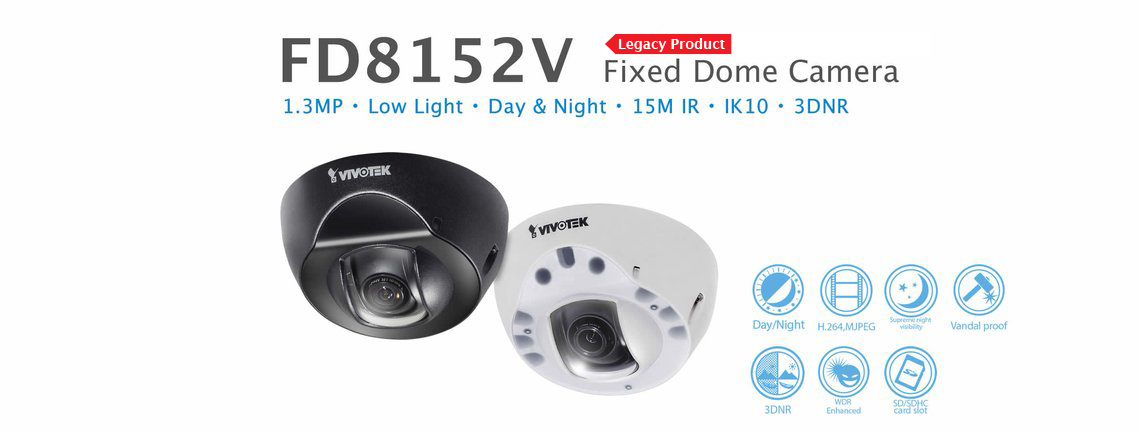
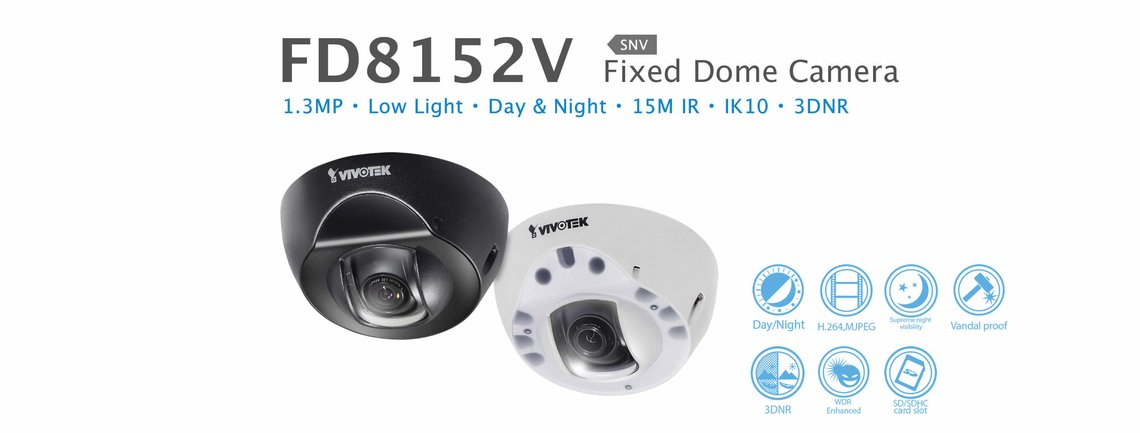
Updates VU product

Changed region(s): [[0.5219, 0.06, 0.6447, 0.1501]]

diff --git a/box-cameras/index.html b/box-cameras/index.html
@@ -3179,7 +3179,7 @@ to improve your experience.
       </div> -->
 
       <!-- FD8152V -->
-      <!-- <div class="list-item box">
+      <div class="list-item box">
        <em class="jplist_pro_em jplist_pro_em_t84">
         <span class="mp1_3">1.3MP</span>&nbsp;
         <span class="snv">SNV</span>&nbsp;
@@ -3200,7 +3200,7 @@ to improve your experience.
          <span class="indoor"><span class="iconic iconic-video" title="Environment" aria-hidden="true"></span> Indoor</span>
          </p>
         </div>
-      </div> -->
+      </div>
 
       <!-- FD8154 -->
       <!-- <div class="list-item box">

diff --git a/bullet-cameras/index.html b/bullet-cameras/index.html
@@ -3179,7 +3179,7 @@ to improve your experience.
       </div> -->
 
       <!-- FD8152V -->
-      <!-- <div class="list-item box">
+      <div class="list-item box">
        <em class="jplist_pro_em jplist_pro_em_t84">
         <span class="mp1_3">1.3MP</span>&nbsp;
         <span class="snv">SNV</span>&nbsp;
@@ -3200,7 +3200,7 @@ to improve your experience.
          <span class="indoor"><span class="iconic iconic-video" title="Environment" aria-hidden="true"></span> Indoor</span>
          </p>
         </div>
-      </div> -->
+      </div>
 
       <!-- FD8154 -->
       <!-- <div class="list-item box">

diff --git a/counting-cameras/index.html b/counting-cameras/index.html
@@ -3179,7 +3179,7 @@ to improve your experience.
       </div> -->
 
       <!-- FD8152V -->
-      <!-- <div class="list-item box">
+      <div class="list-item box">
        <em class="jplist_pro_em jplist_pro_em_t84">
         <span class="mp1_3">1.3MP</span>&nbsp;
         <span class="snv">SNV</span>&nbsp;
@@ -3200,7 +3200,7 @@ to improve your experience.
          <span class="indoor"><span class="iconic iconic-video" title="Environment" aria-hidden="true"></span> Indoor</span>
          </p>
         </div>
-      </div> -->
+      </div>
 
       <!-- FD8154 -->
       <!-- <div class="list-item box">

diff --git a/cube-cameras/index.html b/cube-cameras/index.html
@@ -3179,7 +3179,7 @@ to improve your experience.
       </div> -->
 
       <!-- FD8152V -->
-      <!-- <div class="list-item box">
+      <div class="list-item box">
        <em class="jplist_pro_em jplist_pro_em_t84">
         <span class="mp1_3">1.3MP</span>&nbsp;
         <span class="snv">SNV</span>&nbsp;
@@ -3200,7 +3200,7 @@ to improve your experience.
          <span class="indoor"><span class="iconic iconic-video" title="Environment" aria-hidden="true"></span> Indoor</span>
          </p>
         </div>
-      </div> -->
+      </div>
 
       <!-- FD8154 -->
       <!-- <div class="list-item box">

diff --git a/fisheye-cameras/index.html b/fisheye-cameras/index.html
@@ -3179,7 +3179,7 @@ to improve your experience.
       </div> -->
 
       <!-- FD8152V -->
-      <!-- <div class="list-item box">
+      <div class="list-item box">
        <em class="jplist_pro_em jplist_pro_em_t84">
         <span class="mp1_3">1.3MP</span>&nbsp;
         <span class="snv">SNV</span>&nbsp;
@@ -3200,7 +3200,7 @@ to improve your experience.
          <span class="indoor"><span class="iconic iconic-video" title="Environment" aria-hidden="true"></span> Indoor</span>
          </p>
         </div>
-      </div> -->
+      </div>
 
       <!-- FD8154 -->
       <!-- <div class="list-item box">

diff --git a/fixed-dome-cameras/index.html b/fixed-dome-cameras/index.html
@@ -3179,7 +3179,7 @@ to improve your experience.
       </div> -->
 
       <!-- FD8152V -->
-      <!-- <div class="list-item box">
+      <div class="list-item box">
        <em class="jplist_pro_em jplist_pro_em_t84">
         <span class="mp1_3">1.3MP</span>&nbsp;
         <span class="snv">SNV</span>&nbsp;
@@ -3200,7 +3200,7 @@ to improve your experience.
          <span class="indoor"><span class="iconic iconic-video" title="Environment" aria-hidden="true"></span> Indoor</span>
          </p>
         </div>
-      </div> -->
+      </div>
 
       <!-- FD8154 -->
       <!-- <div class="list-item box">

diff --git a/mini-box-cameras/index.html b/mini-box-cameras/index.html
@@ -3179,7 +3179,7 @@ to improve your experience.
       </div> -->
 
       <!-- FD8152V -->
-      <!-- <div class="list-item box">
+      <div class="list-item box">
        <em class="jplist_pro_em jplist_pro_em_t84">
         <span class="mp1_3">1.3MP</span>&nbsp;
         <span class="snv">SNV</span>&nbsp;
@@ -3200,7 +3200,7 @@ to improve your experience.
          <span class="indoor"><span class="iconic iconic-video" title="Environment" aria-hidden="true"></span> Indoor</span>
          </p>
         </div>
-      </div> -->
+      </div>
 
       <!-- FD8154 -->
       <!-- <div class="list-item box">

diff --git a/mobile-dome-cameras/index.html b/mobile-dome-cameras/index.html
@@ -3179,7 +3179,7 @@ to improve your experience.
       </div> -->
 
       <!-- FD8152V -->
-      <!-- <div class="list-item box">
+      <div class="list-item box">
        <em class="jplist_pro_em jplist_pro_em_t84">
         <span class="mp1_3">1.3MP</span>&nbsp;
         <span class="snv">SNV</span>&nbsp;
@@ -3200,7 +3200,7 @@ to improve your experience.
          <span class="indoor"><span class="iconic iconic-video" title="Environment" aria-hidden="true"></span> Indoor</span>
          </p>
         </div>
-      </div> -->
+      </div>
 
       <!-- FD8154 -->
       <!-- <div class="list-item box">

diff --git a/network-cameras/index.html b/network-cameras/index.html
@@ -3179,7 +3179,7 @@ to improve your experience.
       </div> -->
 
       <!-- FD8152V -->
-      <!-- <div class="list-item box">
+      <div class="list-item box">
        <em class="jplist_pro_em jplist_pro_em_t84">
         <span class="mp1_3">1.3MP</span>&nbsp;
         <span class="snv">SNV</span>&nbsp;
@@ -3200,7 +3200,7 @@ to improve your experience.
          <span class="indoor"><span class="iconic iconic-video" title="Environment" aria-hidden="true"></span> Indoor</span>
          </p>
         </div>
-      </div> -->
+      </div>
 
       <!-- FD8154 -->
       <!-- <div class="list-item box">

diff --git a/panoramic-cameras/index.html b/panoramic-cameras/index.html
@@ -3179,7 +3179,7 @@ to improve your experience.
       </div> -->
 
       <!-- FD8152V -->
-      <!-- <div class="list-item box">
+      <div class="list-item box">
        <em class="jplist_pro_em jplist_pro_em_t84">
         <span class="mp1_3">1.3MP</span>&nbsp;
         <span class="snv">SNV</span>&nbsp;
@@ -3200,7 +3200,7 @@ to improve your experience.
          <span class="indoor"><span class="iconic iconic-video" title="Environment" aria-hidden="true"></span> Indoor</span>
          </p>
         </div>
-      </div> -->
+      </div>
 
       <!-- FD8154 -->
       <!-- <div class="list-item box">

diff --git a/ptz-cameras/index.html b/ptz-cameras/index.html
@@ -3179,7 +3179,7 @@ to improve your experience.
       </div> -->
 
       <!-- FD8152V -->
-      <!-- <div class="list-item box">
+      <div class="list-item box">
        <em class="jplist_pro_em jplist_pro_em_t84">
         <span class="mp1_3">1.3MP</span>&nbsp;
         <span class="snv">SNV</span>&nbsp;
@@ -3200,7 +3200,7 @@ to improve your experience.
          <span class="indoor"><span class="iconic iconic-video" title="Environment" aria-hidden="true"></span> Indoor</span>
          </p>
         </div>
-      </div> -->
+      </div>
 
       <!-- FD8154 -->
       <!-- <div class="list-item box">

diff --git a/split-type/index.html b/split-type/index.html
@@ -3179,7 +3179,7 @@ to improve your experience.
       </div> -->
 
       <!-- FD8152V -->
-      <!-- <div class="list-item box">
+      <div class="list-item box">
        <em class="jplist_pro_em jplist_pro_em_t84">
         <span class="mp1_3">1.3MP</span>&nbsp;
         <span class="snv">SNV</span>&nbsp;
@@ -3200,7 +3200,7 @@ to improve your experience.
          <span class="indoor"><span class="iconic iconic-video" title="Environment" aria-hidden="true"></span> Indoor</span>
          </p>
         </div>
-      </div> -->
+      </div>
 
       <!-- FD8154 -->
       <!-- <div class="list-item box">
